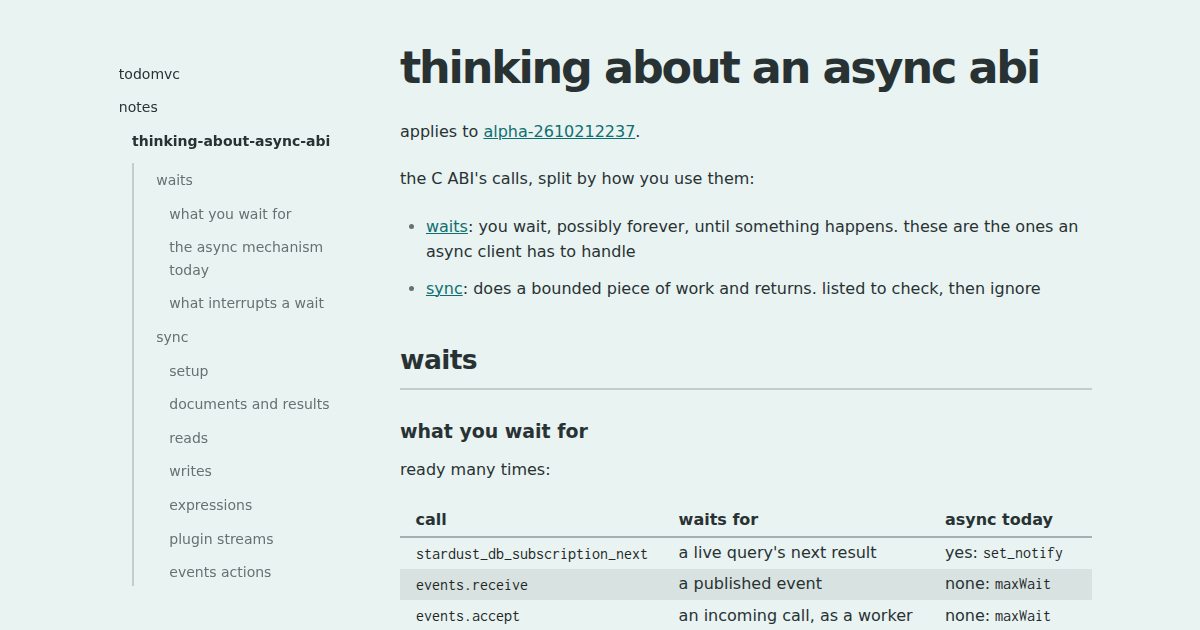
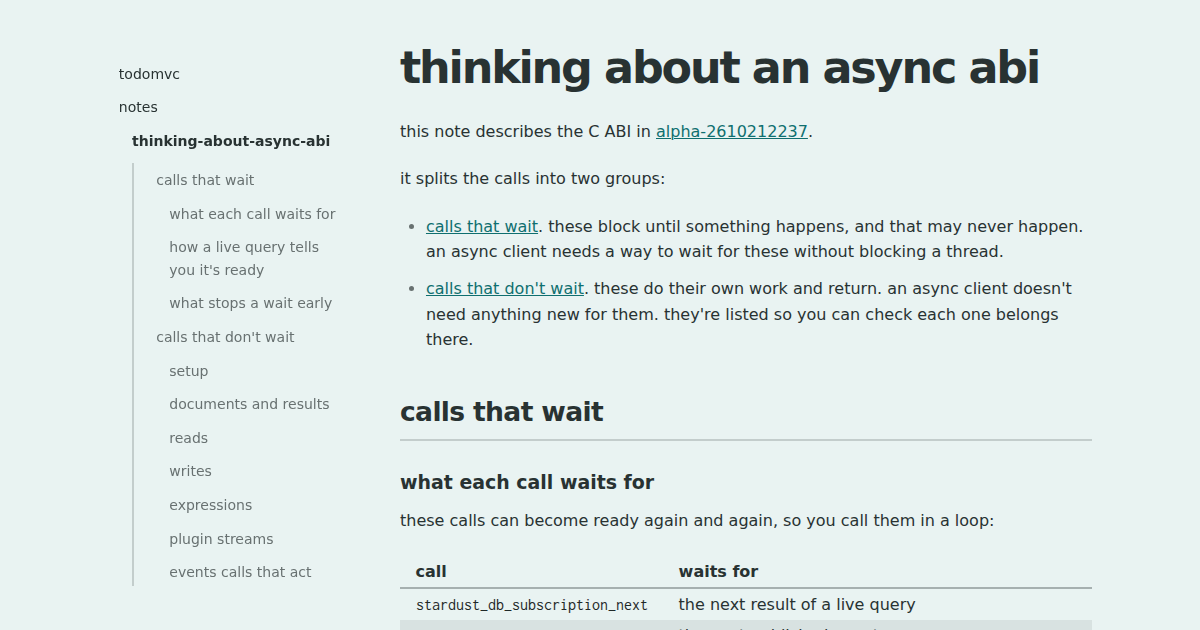
todomvc notes: the async abi note in plain sentences

diff --git a/examples/todomvc/notes/thinking-about-async-abi/index.md b/examples/todomvc/notes/thinking-about-async-abi/index.md
@@ -4,41 +4,47 @@ description: "which stardust calls wait until something happens, and what async 
 ---
 # thinking about an async abi
 
-applies to [alpha-2610212237](../alpha-2610212237/).
+this note describes the C ABI in [alpha-2610212237](../alpha-2610212237/).
 
-the C ABI's calls, split by how you use them:
+it splits the calls into two groups:
 
-- [waits](#waits): you wait, possibly forever, until something happens. these are the ones an async client has to handle
-- [sync](#sync): does a bounded piece of work and returns. listed to check, then ignore
+- [calls that wait](#waits). these block until something happens, and that may never happen. an async client needs a way to wait for these without blocking a thread.
+- [calls that don't wait](#sync). these do their own work and return. an async client doesn't need anything new for them. they're listed so you can check each one belongs there.
 
-## waits {#waits}
+## calls that wait {#waits}
 
-### what you wait for {#wait-list}
+### what each call waits for {#wait-list}
 
-ready many times:
+these calls can become ready again and again, so you call them in a loop:
 
-| call | waits for | async today |
-|---|:---|:---|
-| `stardust_db_subscription_next` | a live query's next result | yes: `set_notify` |
-| `events.receive` | a published event | none: `maxWait` |
-| `events.accept` | an incoming call, as a worker | none: `maxWait` |
-| `events.read` | an exchange's next message, finish or cancel | none: `maxWait` |
+| call | waits for |
+|---|:---|
+| `stardust_db_subscription_next` | the next result of a live query |
+| `events.receive` | the next published event |
+| `events.accept` | the next call to a subject you registered as a worker |
+| `events.read` | the next message in an exchange, or the other side finishing or cancelling |
 
-ready once:
+only `stardust_db_subscription_next` can tell an async client when it's ready, through [`stardust_db_subscription_set_notify`](#notify). for the three `events` calls, you can only block, for up to `maxWait`.
 
-| call | waits for | async today |
-|---|:---|:---|
-| `stardust_db_indexes_sync` | background indexes built | none: `max_wait_ticks` |
-| `backups.sync` | every backup target confirmed | none: `maxWait` |
-| `sdk.sync` | the generated SDK published | none: `maxWait` |
-| `skills.sync` | the generated skills published | none: `maxWait` |
-| `stardust_db_open` | another process's file lock | none: `lock_timeout_ticks`, negative waits forever |
+these calls wait for one thing to finish, so you call them once:
 
-the events ops run through `stardust_db_plugin_call(db, "events", op, request, &result)`. a wait of 0, or none, checks once and reports `TIMEOUT`.
+| call | waits for |
+|---|:---|
+| `stardust_db_indexes_sync` | background indexes to finish building |
+| `backups.sync` | every backup target to confirm the latest commit |
+| `sdk.sync` | the generated SDK to be published |
+| `skills.sync` | the generated skills to be published |
+| `stardust_db_open` | another process to release the database's file lock |
 
-### the async mechanism today {#notify}
+none of these can tell an async client when it's ready. you can only block, for up to `maxWait`, or `max_wait_ticks` for `stardust_db_indexes_sync`, or `lock_timeout_ticks` for `stardust_db_open`, where a negative value blocks forever.
 
-only query subscriptions have one:
+the `events` operations are called through `stardust_db_plugin_call(db, "events", op, request, &result)`.
+
+if you pass a wait of 0, or leave it out, the call checks once and returns `TIMEOUT` straight away when nothing is ready.
+
+### how a live query tells you it's ready {#notify}
+
+this is the only async mechanism in the ABI today:
 
 ```c
 typedef void (*stardust_db_subscription_notify)(void *ctx);
@@ -46,24 +52,25 @@ uint32_t stardust_db_subscription_set_notify(stardust_db_subscription *sub, star
 uint32_t stardust_db_subscription_next(stardust_db_subscription *sub, int64_t max_wait_ticks, stardust_db_live_event *event);
 ```
 
-- `set_notify` once, before any `next`
-- `next(0)`: an event, or `TIMEOUT`, which arms one wake-up
-- `notify` may run on any thread, and must not call stardust
-- after `stardust_db_subscription_release` returns, no callback runs
+1. call `set_notify` once, before you call `next` for the first time.
+2. call `next` with a wait of 0. you get either a result, or `TIMEOUT`.
+3. a `TIMEOUT` means stardust will call your `notify` function once, when a result is ready. then go back to step 2.
 
-### what interrupts a wait {#interrupts}
+your `notify` function can be called on any thread. it must not call stardust. once `stardust_db_subscription_release` returns, `notify` won't be called again.
 
-| wait | interrupted by | returns |
+### what stops a wait early {#interrupts}
+
+| a wait in | ends early when you call | and returns |
 |---|:---|:---|
-| `stardust_db_subscription_next` | `stardust_db_subscription_cancel`, `_release` | `CANCELLED` |
-| `events.receive` | `events.unsubscribe`, `events.close_owner` | `CANCELLED` |
-| `events.accept` | `events.unregister`, `events.close_owner` | `CANCELLED` |
+| `stardust_db_subscription_next` | `stardust_db_subscription_cancel` or `stardust_db_subscription_release` | `CANCELLED` |
+| `events.receive` | `events.unsubscribe` or `events.close_owner` | `CANCELLED` |
+| `events.accept` | `events.unregister` or `events.close_owner` | `CANCELLED` |
 | `events.read` | `events.close_owner` | `CANCELLED` |
-| all of them | `stardust_db_close` | `CLOSED` |
+| any of the above | `stardust_db_close` | `CLOSED` |
 
-## sync {#sync}
+## calls that don't wait {#sync}
 
-each of these does its own work and returns. some take a while (a big query, a write waiting to be durable), but none waits on something that might not happen.
+each of these does its own work and returns. some can take a while, such as a big query, or a write that waits until it's safely on disk. but none of them waits for something that might never happen.
 
 ### setup {#setup}
 
@@ -75,13 +82,13 @@ each of these does its own work and returns. some take a while (a big query, a w
 
 ### reads {#reads}
 
-`stardust_db_read_entity`, `stardust_db_query_open`, `stardust_db_query_run`, `stardust_db_rows_next`, `stardust_db_rows_error`, `stardust_db_rows_release`, `stardust_db_query_error`, `stardust_db_query_release`, `stardust_db_definition_get`, `stardust_db_definition_list`, `stardust_db_plan` (status, history, explain), `objects.get`, `objects.lookup`, `objects.children`, `objects.path`, `objects.files`, `objects.manifest`, `blackholes.preview`, `blackholes.audit`, every `*.status`
+`stardust_db_read_entity`, `stardust_db_query_open`, `stardust_db_query_run`, `stardust_db_rows_next`, `stardust_db_rows_error`, `stardust_db_rows_release`, `stardust_db_query_error`, `stardust_db_query_release`, `stardust_db_definition_get`, `stardust_db_definition_list`, `stardust_db_plan` when it reads status, history or explain, `objects.get`, `objects.lookup`, `objects.children`, `objects.path`, `objects.files`, `objects.manifest`, `blackholes.preview`, `blackholes.audit`, and the `status` operation of every plugin
 
 ### writes {#writes}
 
-return once durable.
+a write returns once its changes are safely on disk.
 
-`stardust_db_merge_patch`, `stardust_db_mutation_open`, `stardust_db_mutation_run`, `stardust_db_mutation_error`, `stardust_db_mutation_release`, `stardust_db_bulk_begin`, `stardust_db_bulk_add`, `stardust_db_bulk_finish`, `stardust_db_bulk_abort`, `stardust_db_definition_patch`, `stardust_db_plan` (pin, unpin, replan, revert), `objects.create`, `objects.update`, `objects.move`, `objects.remove`, `blackholes.execute`
+`stardust_db_merge_patch`, `stardust_db_mutation_open`, `stardust_db_mutation_run`, `stardust_db_mutation_error`, `stardust_db_mutation_release`, `stardust_db_bulk_begin`, `stardust_db_bulk_add`, `stardust_db_bulk_finish`, `stardust_db_bulk_abort`, `stardust_db_definition_patch`, `stardust_db_plan` when it pins, unpins, replans or reverts, `objects.create`, `objects.update`, `objects.move`, `objects.remove`, `blackholes.execute`
 
 ### expressions {#expressions}
 
@@ -89,24 +96,24 @@ return once durable.
 
 ### plugin streams {#streams}
 
-`objects.upload` and `objects.open`, through `stardust_db_plugin_stream_open`, `_write`, `_read`, `_seek`, `_finish`, `_release`
+`objects.upload` and `objects.open` use these: `stardust_db_plugin_stream_open`, `stardust_db_plugin_stream_write`, `stardust_db_plugin_stream_read`, `stardust_db_plugin_stream_seek`, `stardust_db_plugin_stream_finish`, `stardust_db_plugin_stream_release`
 
-### events actions {#events}
+### events calls that act {#events}
 
-none of these waits: a full queue drops the delivery (`publish`) or cancels the exchange (`send`).
+none of these wait. when the other side's queue is full, `publish` drops the event, and `send` cancels the exchange.
 
 `events.open_owner`, `events.close_owner`, `events.publish`, `events.subscribe`, `events.unsubscribe`, `events.register`, `events.unregister`, `events.call`, `events.send`, `events.finish`, `events.cancel`
 
-### live query setup {#subscriptions}
+### starting and stopping a live query {#subscriptions}
 
 `stardust_db_query_subscribe`, `stardust_db_subscription_cancel`, `stardust_db_subscription_error`
 
-### to check {#check}
+### worth a second look {#check}
 
-sync, but they wait for other calls to finish:
+these don't wait for something to happen, but they do wait for other calls to finish:
 
 | call | waits for |
 |---|:---|
-| `stardust_db_close` | running calls; interrupts waits first |
-| `stardust_db_subscription_release` | running `next` calls and callbacks |
-| `stardust_db_plugin_call` | whatever the op does: a route, not a call of its own |
+| `stardust_db_close` | every call still running. it ends any waits first, so this doesn't hang |
+| `stardust_db_subscription_release` | any `next` call still running, and any `notify` call in progress |
+| `stardust_db_plugin_call` | it does whatever the operation you name does, so it waits only when that operation waits |
